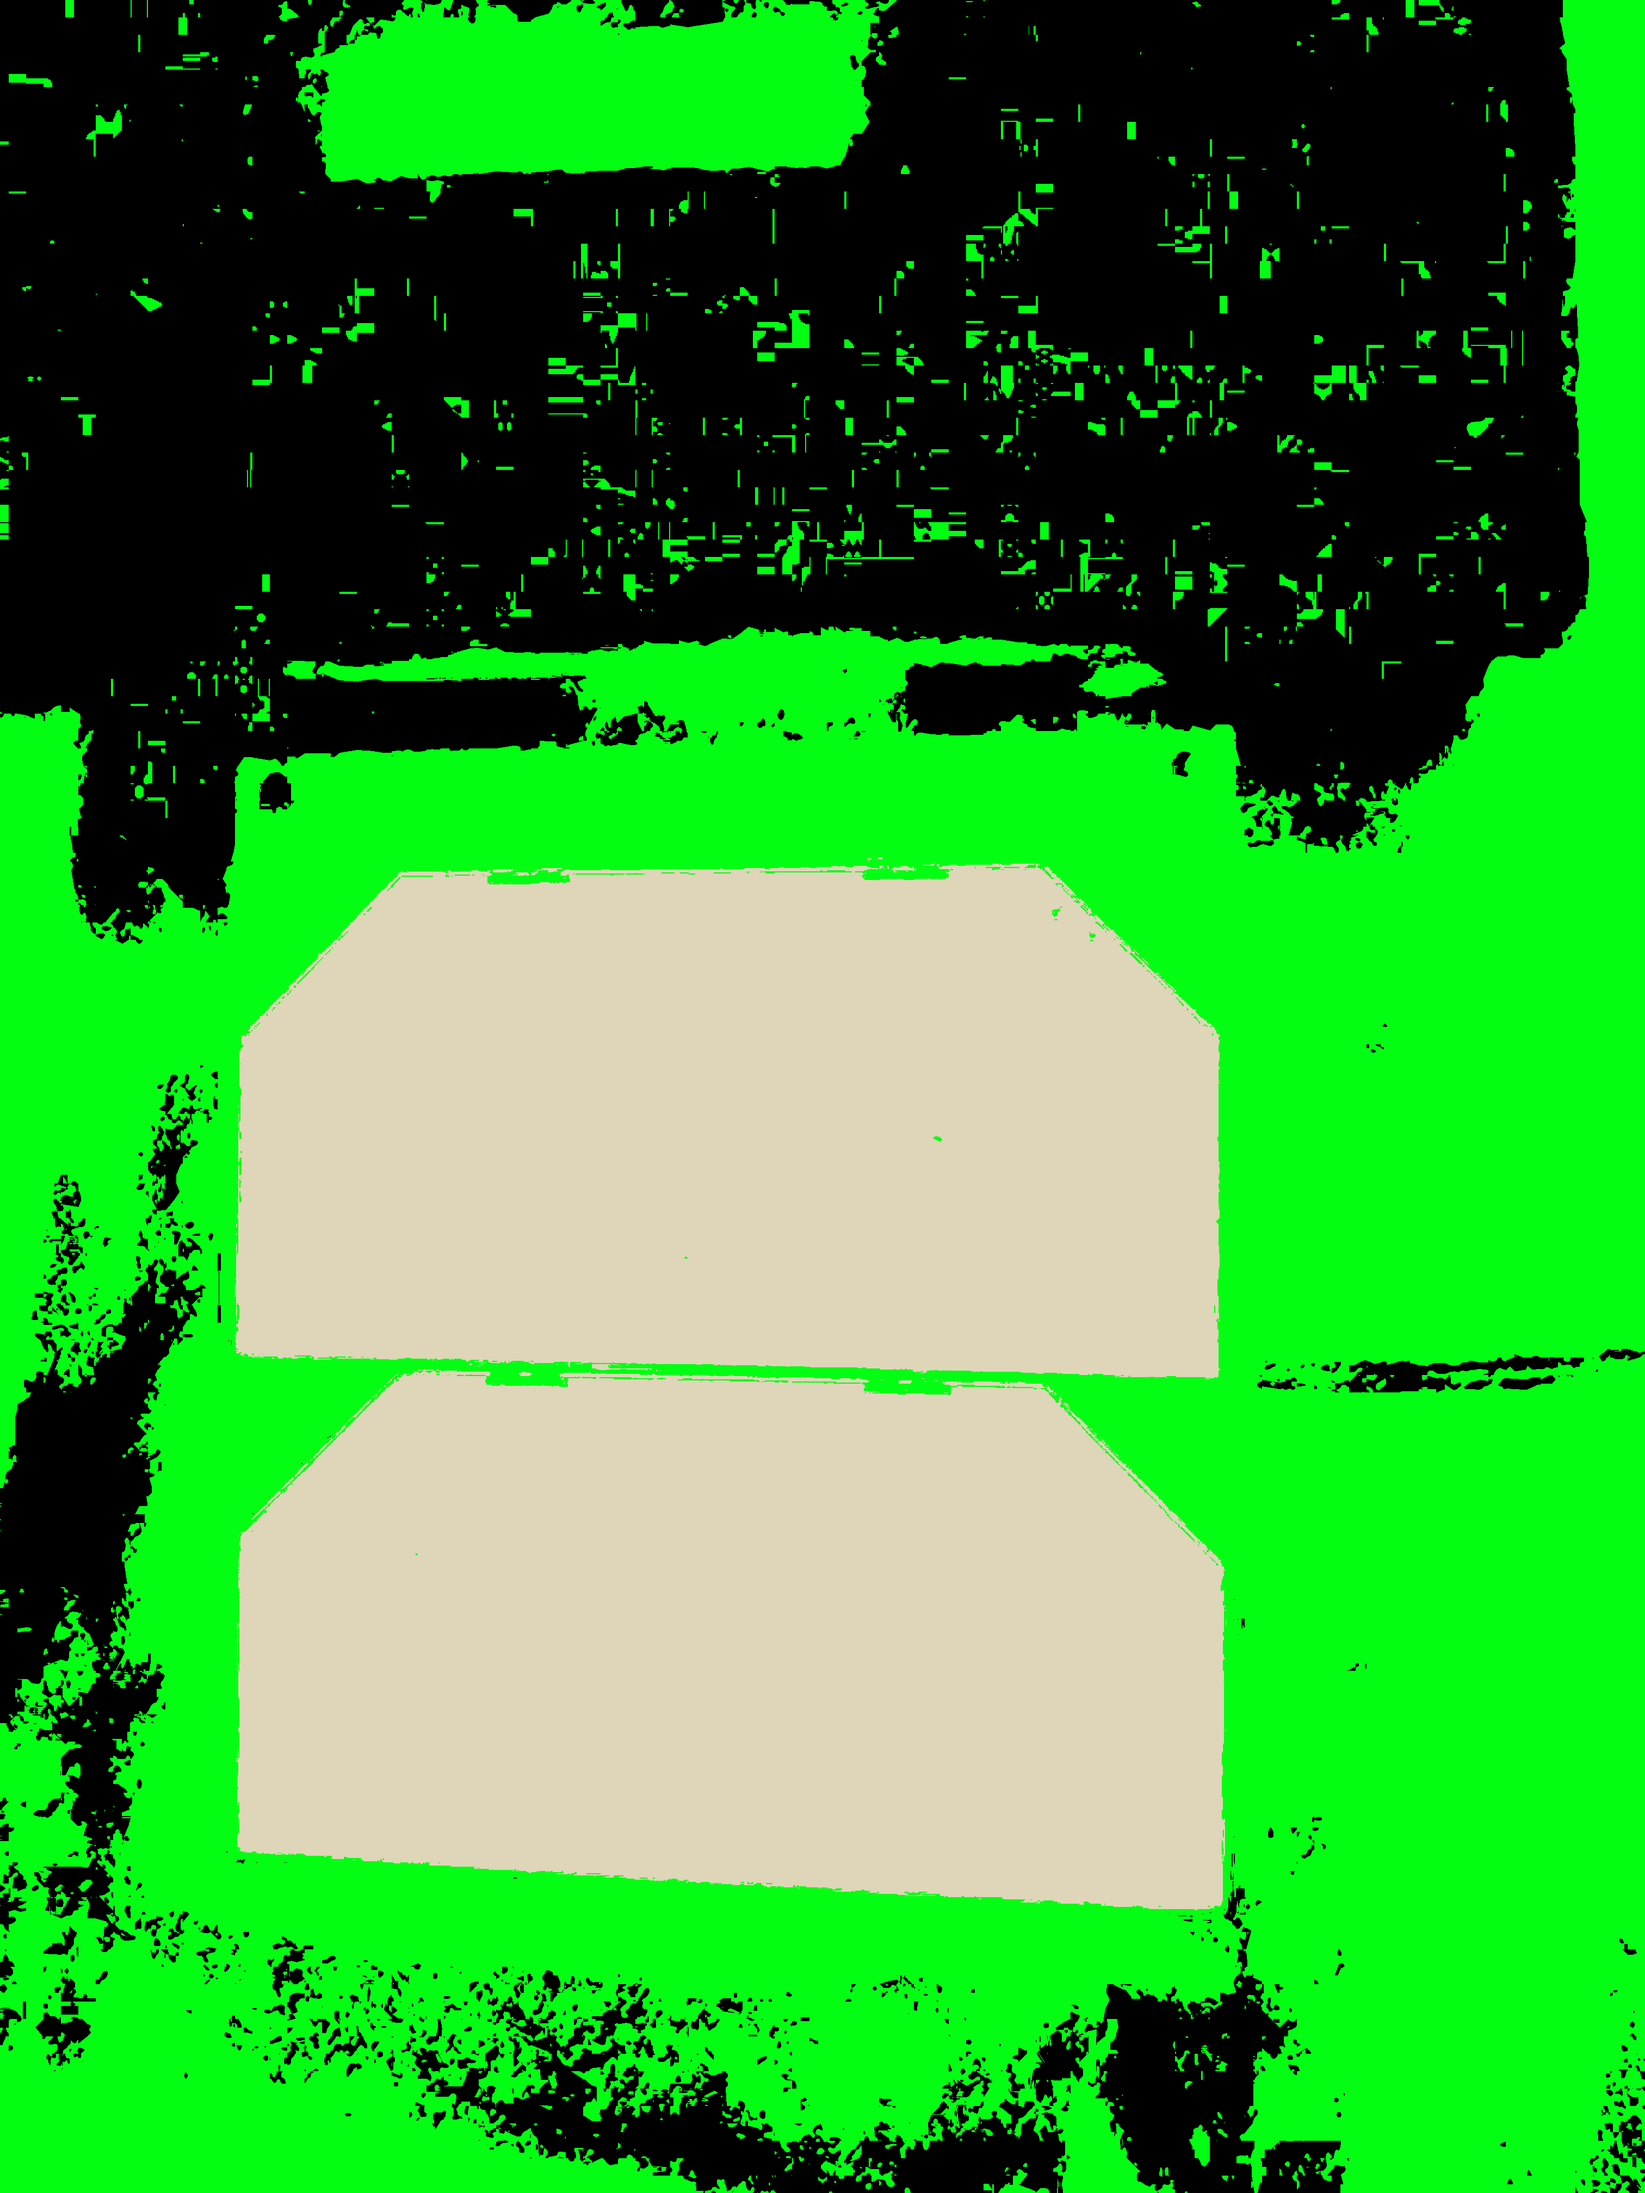
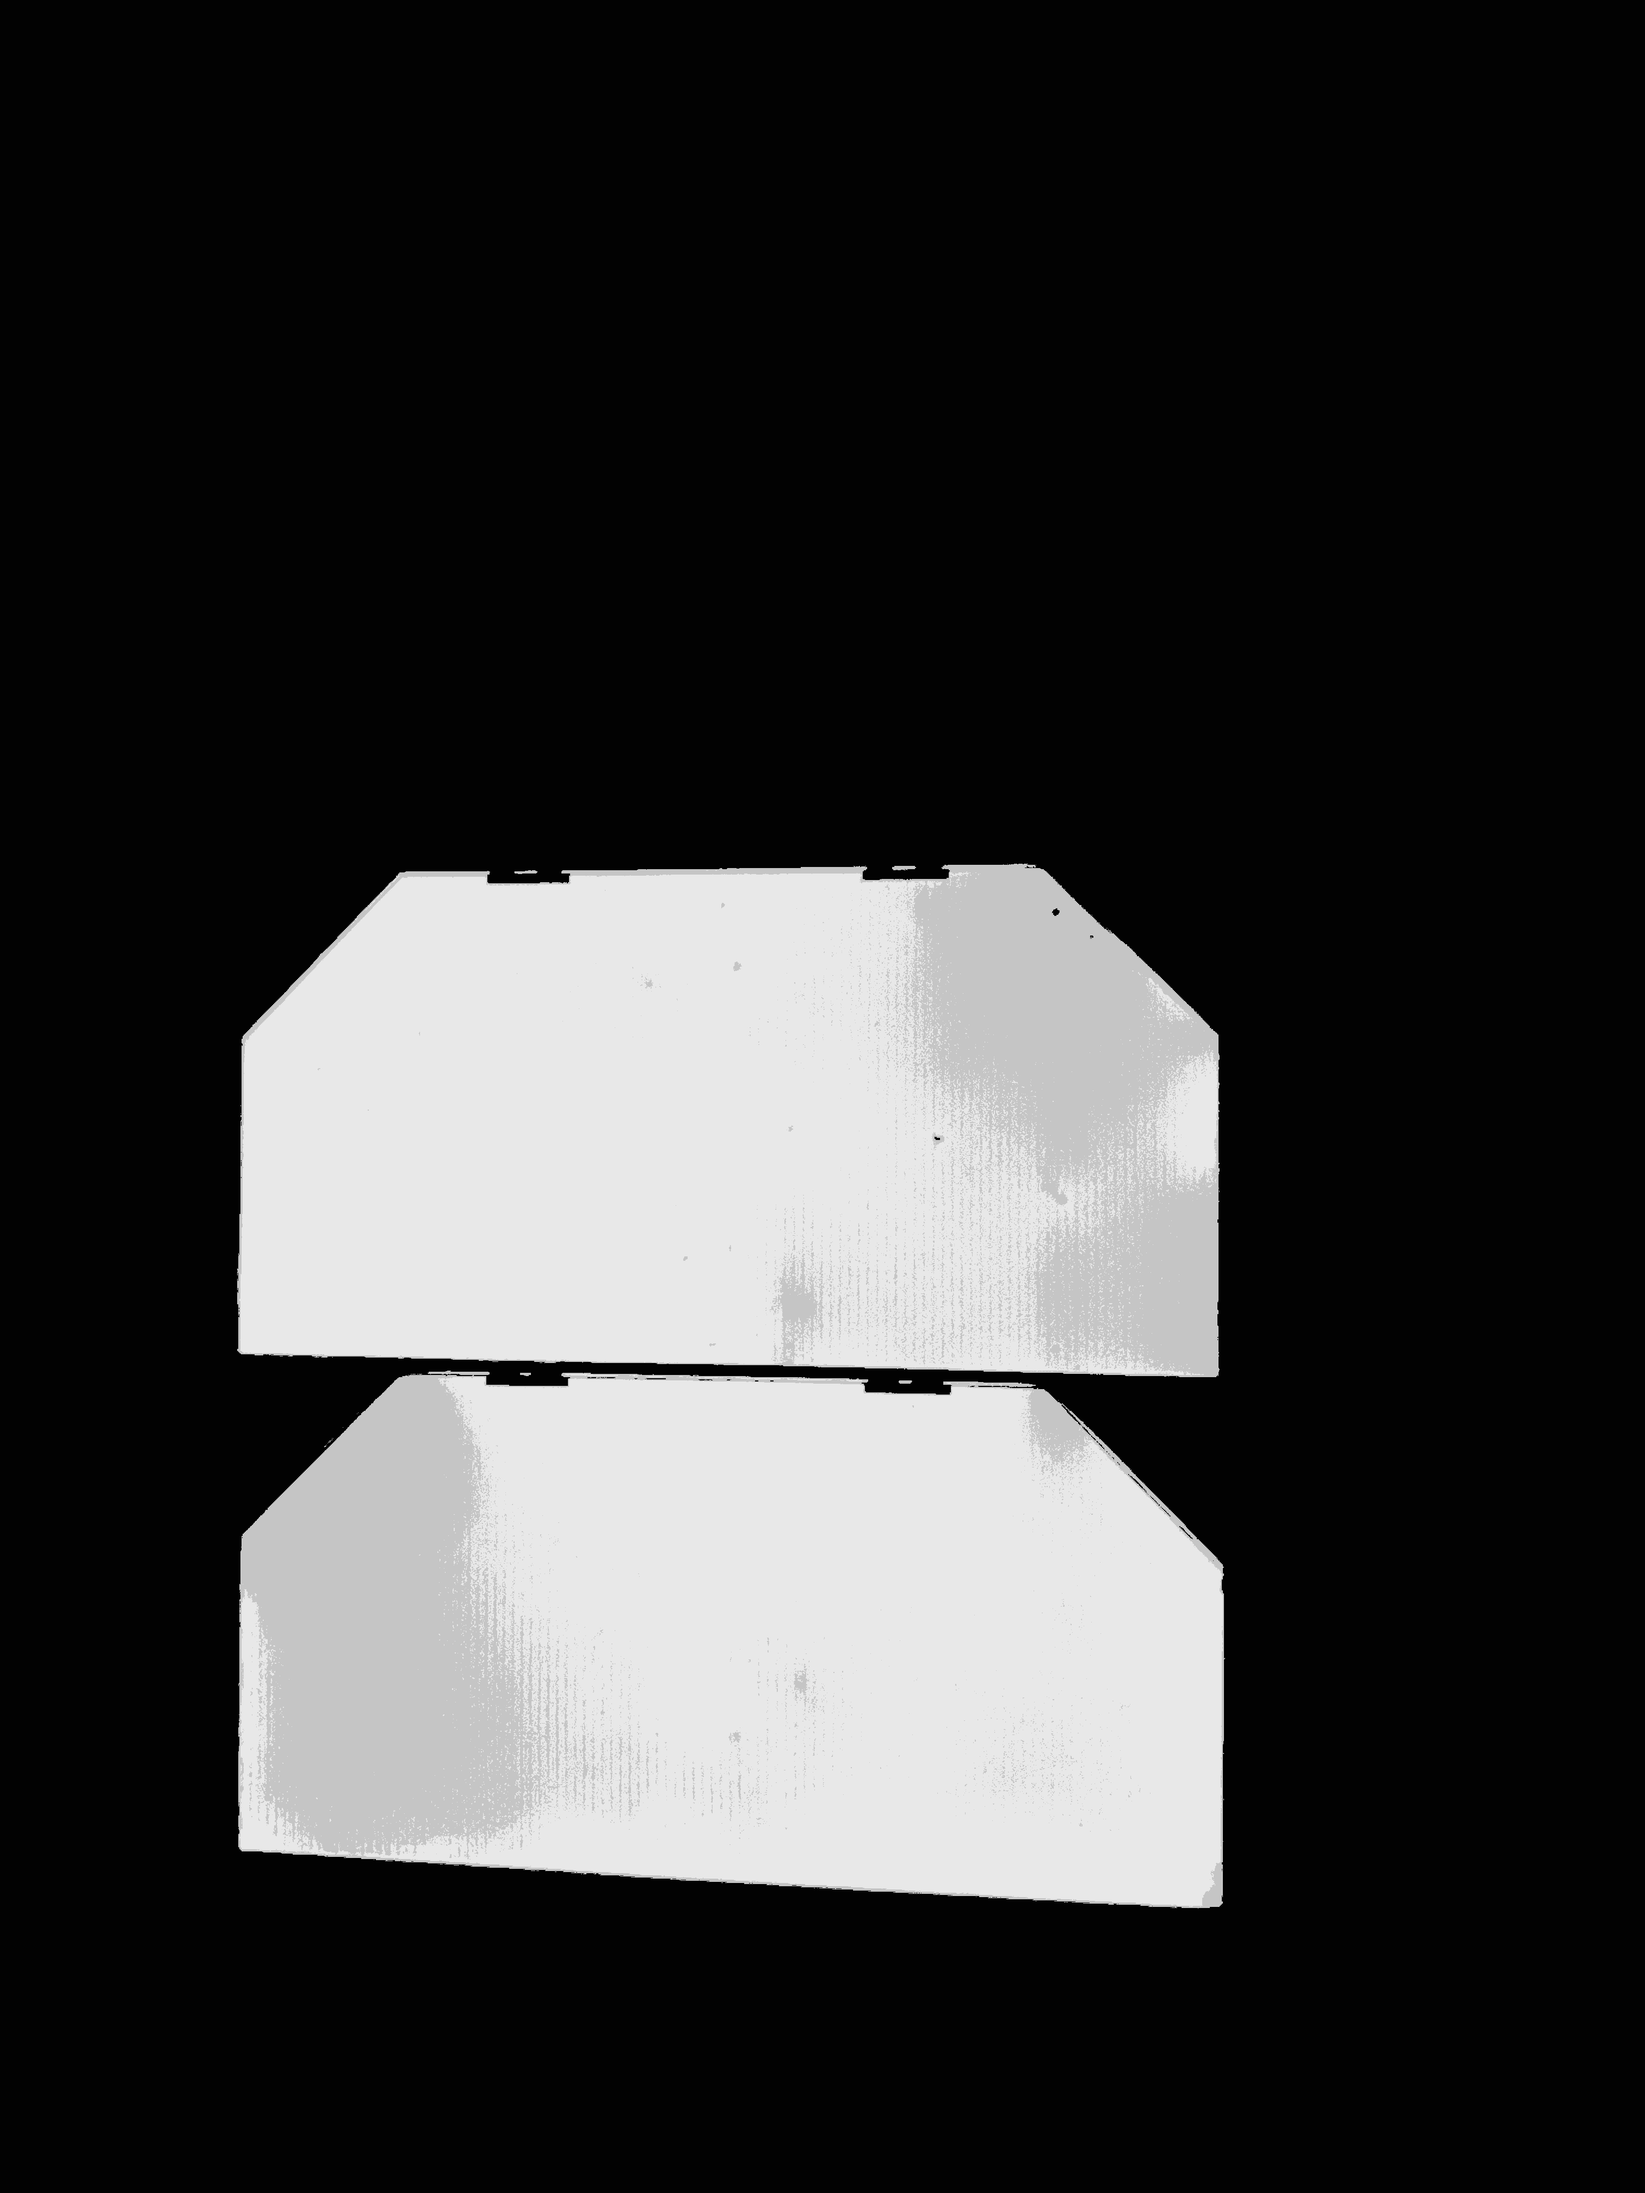
Slight modification of k_means algroithm to output grayscale img This is wrong though, suppose to extract the k_means group
Will fix this later

diff --git a/src/core/kmeans.py b/src/core/kmeans.py
@@ -26,7 +26,8 @@ class k_means_calc:
         # indice of array matches pixel (x,y)
         # select = 0 is bgr, select = 1 is hsv
         if select == 0:
-            pixel_vals = self.img.hsv_arr.reshape((-1,3))
+            # since for hsv only use k-means for the value channel (-1,1) reshape to (N, 1)
+            pixel_vals = self.img.hsv_mono_arr("v").reshape(-1, 1)
         elif select == 1:
             pixel_vals = self.img.bgr_arr.reshape((-1,3))
             
@@ -41,9 +42,19 @@ class k_means_calc:
         centers = np.uint8(centers)
         segmented_data = centers[labels.flatten()]
 
-        segmented_image = segmented_data.reshape((self.img.bgr_arr.shape))
+        segmented_image = None
 
-        self.save_k_means(segmented_image, out_dir)
+        # grayscale the segmented image
+        gray_segmented_image = None
+        if select == 0:
+            segmented_image = segmented_data.reshape(self.img.hsv_mono_arr("v").shape)
+            gray_segmented_image = segmented_image
+        elif select == 1:
+            segmented_image = segmented_data.reshape(self.img.bgr_arr.shape)
+            gray_segmented_image = cv2.cvtColor(segmented_image, cv2.COLOR_BGR2GRAY)
+
+
+        self.save_k_means(gray_segmented_image, out_dir)
 
     def save_k_means(self, channel_arr, out_dir: Path):
         out_dir.mkdir(parents=True, exist_ok=True)

diff --git a/src/processing/ELMImage.py b/src/processing/ELMImage.py
@@ -101,15 +101,9 @@ class ELMImage:
 
     def hsv_mono_arr(self, select: str) -> cv2.typing.MatLike:
         h, s, v = cv2.split(self.hsv_arr)
-        zeros = np.zeros_like(h)
-
-        mono_arr = cv2.merge([zeros, zeros, zeros])
-        if select == "h":
-            mono_arr = cv2.merge([h, zeros, zeros])
-        elif select == "s":
-            mono_arr = cv2.merge([zeros, s, zeros])
-        elif select == "v":
-            mono_arr = cv2.merge([zeros, zeros, v])
+        
+        channel_map = {"h": h, "s": s, "v": v}
+        mono_arr = channel_map[select]
         
         return mono_arr
     

diff --git a/tests/test_model.py b/tests/test_model.py
@@ -127,6 +127,12 @@ def test_disp_hsv_img4():
 
 def test_disp_hsv_mono_img1():
     img_dir = Path.cwd() / "data" / "processed" / "sp1" / "IMG_6613.png"
+    out_dir = Path.cwd() / "data" / "processed" / "hsv_channels" / f"{img_dir.name}"
+    img = ELMImage(img_dir)
+
+    img.disp_hsv_mono_img(out_dir, select="h")
+    img.disp_hsv_mono_img(out_dir, select="s")
+    img.disp_hsv_mono_img(out_dir, select="v")
 
 
 
